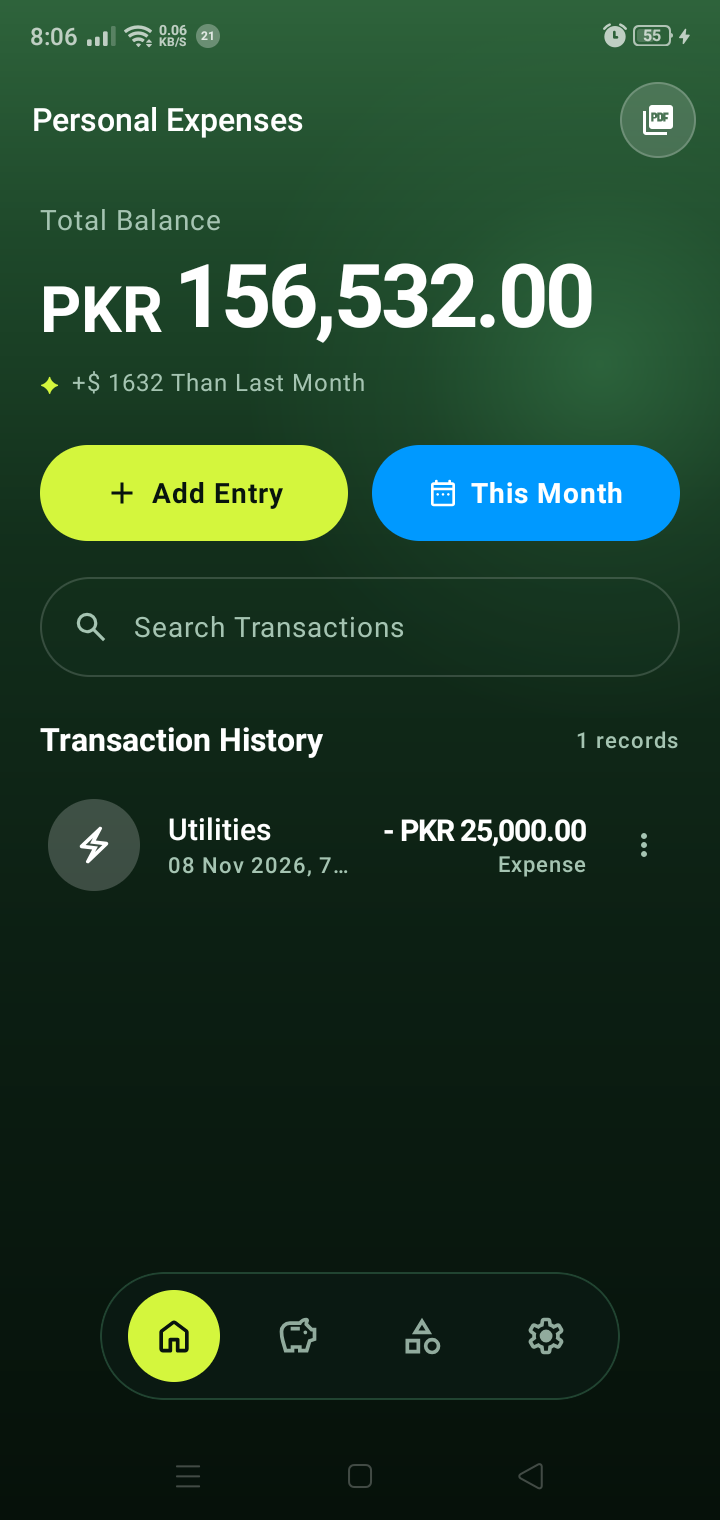
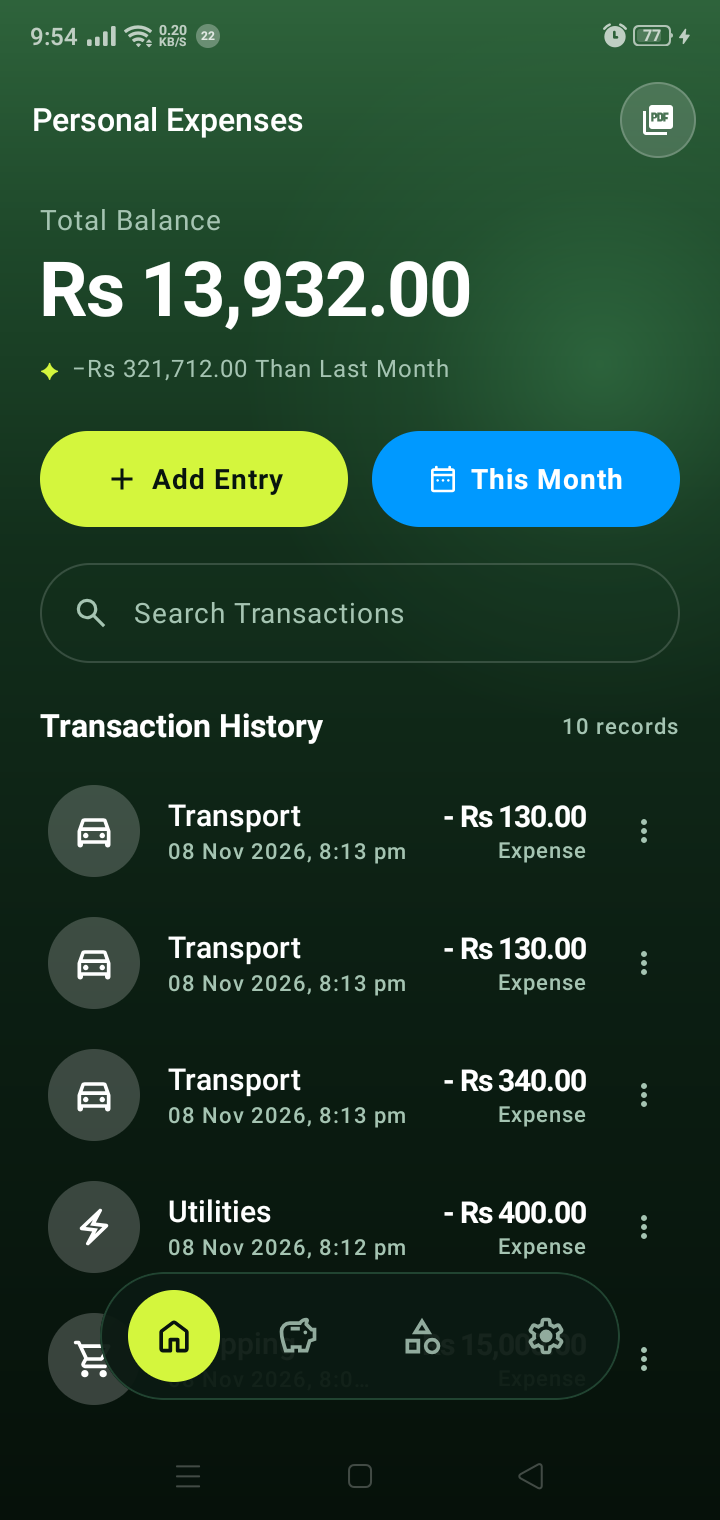
fix(ui): harmonize currency symbol typography and calculate real month-over-month trend

diff --git a/app/src/main/java/com/example/expensetracker/presentation/dashboard/DashboardScreen.kt b/app/src/main/java/com/example/expensetracker/presentation/dashboard/DashboardScreen.kt
@@ -228,25 +228,34 @@ fun DashboardScreen(
                         letterSpacing = 0.4.sp
                     )
 
-                    Row(
-                        verticalAlignment = Alignment.Bottom,
-                        horizontalArrangement = Arrangement.spacedBy(6.dp)
-                    ) {
-                        Text(
-                            text = uiState.currencySymbol,
-                            fontSize = 32.sp,
-                            fontWeight = FontWeight.Bold,
-                            color = Color.White
-                        )
-                        Text(
-                            text = formatAmount(uiState.balance),
-                            fontSize = 44.sp,
-                            fontWeight = FontWeight.Bold,
-                            color = Color.White,
-                            letterSpacing = (-1.5).sp,
-                            maxLines = 1,
-                            overflow = TextOverflow.Ellipsis
-                        )
+                    val formattedBalance = if (uiState.balance < 0) {
+                        "− ${uiState.currencySymbol} ${formatAmount(kotlin.math.abs(uiState.balance))}"
+                    } else {
+                        "${uiState.currencySymbol} ${formatAmount(uiState.balance)}"
+                    }
+
+                    Text(
+                        text = formattedBalance,
+                        fontSize = 38.sp,
+                        fontWeight = FontWeight.Bold,
+                        color = Color.White,
+                        letterSpacing = (-1.0).sp,
+                        maxLines = 1,
+                        overflow = TextOverflow.Ellipsis
+                    )
+
+                    val monthlyDelta = uiState.monthlyTrendDelta
+                    val subtitleText = when {
+                        uiState.balance < 0 -> "Expenses exceeding income — review budget"
+                        uiState.hasLastMonthData && monthlyDelta != null -> {
+                            val sign = if (monthlyDelta >= 0) "+" else "−"
+                            "$sign${uiState.currencySymbol} ${formatAmount(kotlin.math.abs(monthlyDelta))} Than Last Month"
+                        }
+                        uiState.thisMonthNet != 0.0 -> {
+                            val sign = if (uiState.thisMonthNet >= 0) "+" else "−"
+                            "$sign${uiState.currencySymbol} ${formatAmount(kotlin.math.abs(uiState.thisMonthNet))} This Month"
+                        }
+                        else -> "Healthy financial balance maintained"
                     }
 
                     Row(
@@ -260,8 +269,7 @@ fun DashboardScreen(
                             fontSize = 11.sp
                         )
                         Text(
-                            text = if (uiState.balance >= 0) "+$ 1632 Than Last Month"
-                                   else "Expenses exceeding income — review budget",
+                            text = subtitleText,
                             style = MaterialTheme.typography.bodySmall,
                             color = Color(0xFFA5C4B2)
                         )

diff --git a/app/src/main/java/com/example/expensetracker/presentation/dashboard/DashboardViewModel.kt b/app/src/main/java/com/example/expensetracker/presentation/dashboard/DashboardViewModel.kt
@@ -26,6 +26,7 @@ import kotlinx.coroutines.flow.StateFlow
 import kotlinx.coroutines.flow.asStateFlow
 import kotlinx.coroutines.flow.catch
 import kotlinx.coroutines.flow.collectLatest
+import kotlinx.coroutines.flow.combine
 import kotlinx.coroutines.flow.debounce
 import kotlinx.coroutines.flow.distinctUntilChanged
 import kotlinx.coroutines.flow.first
@@ -45,6 +46,7 @@ class DashboardViewModel @Inject constructor(
 
     private var currentLedgerId: String = ""
     private var transactionsJob: Job? = null
+    private var monthlyComparisonJob: Job? = null
     private val searchQueryFlow = MutableStateFlow("")
 
     init {
@@ -93,8 +95,46 @@ class DashboardViewModel @Inject constructor(
                             )
                         }
                         loadTransactions()
+                        loadMonthlyComparison()
                     }
                 }
+        }
+    }
+
+    private fun loadMonthlyComparison() {
+        monthlyComparisonJob?.cancel()
+        if (currentLedgerId.isEmpty()) return
+
+        val (thisMonthStart, thisMonthEnd) = DateUtils.thisMonthRange()
+        val (lastMonthStart, lastMonthEnd) = DateUtils.lastMonthRange()
+
+        monthlyComparisonJob = launchSafely(onError = ::handleError) {
+            combine(
+                transactionRepository.getPeriodIncome(currentLedgerId, thisMonthStart, thisMonthEnd),
+                transactionRepository.getPeriodExpense(currentLedgerId, thisMonthStart, thisMonthEnd),
+                transactionRepository.getPeriodIncome(currentLedgerId, lastMonthStart, lastMonthEnd),
+                transactionRepository.getPeriodExpense(currentLedgerId, lastMonthStart, lastMonthEnd)
+            ) { thisInc, thisExp, lastInc, lastExp ->
+                val thisIncome = thisInc ?: 0.0
+                val thisExpense = thisExp ?: 0.0
+                val lastIncome = lastInc ?: 0.0
+                val lastExpense = lastExp ?: 0.0
+
+                val hasLastMonth = (lastIncome > 0.0 || lastExpense > 0.0)
+                val thisNet = thisIncome - thisExpense
+                val lastNet = lastIncome - lastExpense
+                val delta = if (hasLastMonth) thisNet - lastNet else null
+
+                Triple(delta, hasLastMonth, thisNet)
+            }.collect { (delta, hasLastMonth, thisNet) ->
+                _uiState.update { state ->
+                    state.copy(
+                        monthlyTrendDelta = delta,
+                        hasLastMonthData = hasLastMonth,
+                        thisMonthNet = thisNet
+                    )
+                }
+            }
         }
     }
 
@@ -280,6 +320,4 @@ class DashboardViewModel @Inject constructor(
     private fun handleError(error: UiError) {
         _uiState.update { it.copy(error = error) }
     }
-
-
 }

diff --git a/app/src/test/java/com/example/expensetracker/data/repository/FakeTransactionRepository.kt b/app/src/test/java/com/example/expensetracker/data/repository/FakeTransactionRepository.kt
@@ -12,6 +12,8 @@ import kotlinx.coroutines.flow.flow
 class FakeTransactionRepository : TransactionRepository {
 
     private val transactionsFlow = MutableStateFlow<List<TransactionWithCategory>>(emptyList())
+    private val periodIncomeFlow = MutableStateFlow<Double?>(null)
+    private val periodExpenseFlow = MutableStateFlow<Double?>(null)
 
     // Test-only knobs — set these from inside a test to control behavior
     var errorToThrow: Throwable? = null
@@ -20,6 +22,14 @@ class FakeTransactionRepository : TransactionRepository {
 
     fun emitTransactions(transactions: List<TransactionWithCategory>) {
         transactionsFlow.value = transactions
+    }
+
+    fun emitPeriodIncome(income: Double?) {
+        periodIncomeFlow.value = income
+    }
+
+    fun emitPeriodExpense(expense: Double?) {
+        periodExpenseFlow.value = expense
     }
 
     override fun getTransactions(
@@ -35,10 +45,10 @@ class FakeTransactionRepository : TransactionRepository {
     }
 
     override fun getPeriodIncome(ledgerId: String, startDate: Long, endDate: Long): Flow<Double?> =
-        TODO("Not needed for current DashboardViewModel tests")
+        periodIncomeFlow
 
     override fun getPeriodExpense(ledgerId: String, startDate: Long, endDate: Long): Flow<Double?> =
-        TODO("Not needed for current DashboardViewModel tests")
+        periodExpenseFlow
 
     override fun getMonthlySnapshot(ledgerId: String, month: Int, year: Int): Flow<MonthlySnapshot?> =
         TODO("Not needed for current DashboardViewModel tests")

diff --git a/app/src/test/java/com/example/expensetracker/domain/model/DateUtilsTest.kt b/app/src/test/java/com/example/expensetracker/domain/model/DateUtilsTest.kt
@@ -93,4 +93,28 @@ class DateUtilsTest {
         assertEquals(at(2026, Calendar.NOVEMBER, 8), start)
         assertEquals(at(2026, Calendar.NOVEMBER, 8, 23, 59, 59, 999), end)
     }
+
+    @Test
+    fun `last month runs from first day to last day of previous month`() {
+        val (start, end) = DateUtils.lastMonthRange(sunday)
+
+        assertEquals(at(2026, Calendar.OCTOBER, 1), start)
+        assertEquals(at(2026, Calendar.OCTOBER, 31, 23, 59, 59, 999), end)
+    }
+
+    @Test
+    fun `last month in January wraps to December of previous year`() {
+        val (start, end) = DateUtils.lastMonthRange(at(2026, Calendar.JANUARY, 15))
+
+        assertEquals(at(2025, Calendar.DECEMBER, 1), start)
+        assertEquals(at(2025, Calendar.DECEMBER, 31, 23, 59, 59, 999), end)
+    }
+
+    @Test
+    fun `last month in March of leap year ends on Feb 29`() {
+        val (start, end) = DateUtils.lastMonthRange(at(2028, Calendar.MARCH, 15))
+
+        assertEquals(at(2028, Calendar.FEBRUARY, 1), start)
+        assertEquals(at(2028, Calendar.FEBRUARY, 29, 23, 59, 59, 999), end)
+    }
 }

diff --git a/app/src/test/java/com/example/expensetracker/presentation/dashboard/DashboardViewModelTest.kt b/app/src/test/java/com/example/expensetracker/presentation/dashboard/DashboardViewModelTest.kt
@@ -155,4 +155,24 @@ class DashboardViewModelTest {
 
         assertNotNull(viewModel.uiState.value.error)
     }
+
+    @Test
+    fun `when last month has transactions, monthlyTrendDelta is computed accurately`() = runTest {
+        transactionRepository.emitPeriodIncome(10000.0)
+        transactionRepository.emitPeriodExpense(4000.0)
+        ledgerRepository.emitDefaultLedger(sampleLedger())
+
+        assertEquals(6000.0, viewModel.uiState.value.thisMonthNet, 0.01)
+        assertTrue(viewModel.uiState.value.hasLastMonthData)
+    }
+
+    @Test
+    fun `when last month has no transactions, hasLastMonthData is false`() = runTest {
+        transactionRepository.emitPeriodIncome(null)
+        transactionRepository.emitPeriodExpense(null)
+        ledgerRepository.emitDefaultLedger(sampleLedger())
+
+        assertEquals(false, viewModel.uiState.value.hasLastMonthData)
+        assertEquals(null, viewModel.uiState.value.monthlyTrendDelta)
+    }
 }

diff --git a/app/src/main/java/com/example/expensetracker/presentation/dashboard/DashboardUiState.kt b/app/src/main/java/com/example/expensetracker/presentation/dashboard/DashboardUiState.kt
@@ -11,7 +11,7 @@ data class DashboardUiState(
     val totalExpense: Double = 0.0,
     val transactions: List<TransactionWithCategory> = emptyList(),
     val selectedFilter: DateRangeFilter = DateRangeFilter.ThisMonth,
-    val currencySymbol: String = "₨",
+    val currencySymbol: String = "Rs",
     val isLoading: Boolean = false,
     val error: UiError? = null,
     val searchQuery: String = "",
@@ -19,5 +19,8 @@ data class DashboardUiState(
     val selectedTypeFilter: String? = null,
     val allCategories: List<Category> = emptyList(),
     val selectedCategoryIds: Set<String> = emptySet(),
-    val isCategoryFilterSheetVisible: Boolean = false
+    val isCategoryFilterSheetVisible: Boolean = false,
+    val monthlyTrendDelta: Double? = null,
+    val hasLastMonthData: Boolean = false,
+    val thisMonthNet: Double = 0.0
 )

diff --git a/app/src/main/java/com/example/expensetracker/domain/model/DateUtils.kt b/app/src/main/java/com/example/expensetracker/domain/model/DateUtils.kt
@@ -75,6 +75,16 @@ object DateUtils {
         return start to end
     }
 
+    fun lastMonthRange(now: Long = System.currentTimeMillis()): Pair<Long, Long> {
+        val cal = Calendar.getInstance().apply { timeInMillis = now }
+        cal.add(Calendar.MONTH, -1)
+        cal.set(Calendar.DAY_OF_MONTH, 1)
+        val start = cal.toStartOfDay().timeInMillis
+        cal.set(Calendar.DAY_OF_MONTH, cal.getActualMaximum(Calendar.DAY_OF_MONTH))
+        val end = cal.toEndOfDay().timeInMillis
+        return start to end
+    }
+
     fun thisYearRange(now: Long = System.currentTimeMillis()): Pair<Long, Long> {
         val cal = Calendar.getInstance().apply { timeInMillis = now }
         cal.set(Calendar.MONTH, Calendar.JANUARY)

diff --git a/app/src/main/java/com/example/expensetracker/presentation/dashboard/BalanceCard.kt b/app/src/main/java/com/example/expensetracker/presentation/dashboard/BalanceCard.kt
@@ -264,12 +264,12 @@ fun BalanceCard(
 
                 // Balance amount with currency symbol
                 Row(
-                    verticalAlignment = Alignment.Bottom,
+                    verticalAlignment = Alignment.CenterVertically,
                     horizontalArrangement = Arrangement.spacedBy(6.dp)
                 ) {
                     Text(
                         text = currencySymbol,
-                        style = MaterialTheme.typography.headlineMedium,
+                        style = MaterialTheme.typography.displayMedium,
                         fontWeight = FontWeight.Bold,
                         color = ElectricLime
                     )

diff --git a/app/src/main/java/com/example/expensetracker/presentation/transaction/AddEditTransactionUiState.kt b/app/src/main/java/com/example/expensetracker/presentation/transaction/AddEditTransactionUiState.kt
@@ -13,7 +13,7 @@ data class AddEditTransactionUiState(
     val filteredCategories: List<Category> = emptyList(),
     val note: String = "",
     val date: Long = System.currentTimeMillis(),
-    val currencySymbol: String = "Rs.",
+    val currencySymbol: String = "Rs",
     val isSaveEnabled: Boolean = false,
     val isLoading: Boolean = false,
     val isSaved: Boolean = false,

diff --git a/app/src/main/java/com/example/expensetracker/presentation/settings/SettingsUiState.kt b/app/src/main/java/com/example/expensetracker/presentation/settings/SettingsUiState.kt
@@ -6,7 +6,7 @@ import com.example.expensetracker.domain.model.UiError
 
 data class SettingsUiState(
     val currencyCode: String = "PKR",
-    val currencySymbol: String = "₨",
+    val currencySymbol: String = "Rs",
     val themeMode: String = Constants.ThemeMode.SYSTEM,
     val currencySearchQuery: String = "",
     val filteredCurrencies: List<CurrencyModel> = emptyList(),

diff --git a/app/src/main/java/com/example/expensetracker/presentation/transaction/AmountInput.kt b/app/src/main/java/com/example/expensetracker/presentation/transaction/AmountInput.kt
@@ -37,7 +37,7 @@ fun AmountInput(
     ) {
         Text(
             text = currencySymbol,
-            style = MaterialTheme.typography.headlineMedium,
+            style = MaterialTheme.typography.displayMedium,
             fontWeight = FontWeight.Bold,
             color = ElectricLime
         )

diff --git a/README.md b/README.md
@@ -41,7 +41,7 @@ A production-grade, offline-first personal finance Android application built wit
 The app features a bespoke **Organic Forest Luxury** fintech aesthetic inspired by modern wealth management interfaces (e.g. Wise, Monzo, Apple Card):
 
 - **Base Canvas**: Radiant moss-to-obsidian vertical canopy gradient (`#2E633B` $\to$ `#122E1B` $\to$ `#06110A`) with an organic ambient top-right radial light source matching the mockup aesthetic.
-- **Hero Balance**: Large, uncluttered bold balance typography (`PKR 27,420.00`) and dynamic delta chip (*"✦ +$ 1632 Than Last Month"*) floating directly on the radiant green canopy without bounding boxes.
+- **Hero Balance**: Large, uncluttered bold balance typography (`Rs 156,532.00`) and dynamic delta chip (*"✦ +Rs 1,632.00 Than Last Month"* or *"−Rs 321,712.00 Than Last Month"*) floating directly on the radiant green canopy with unified optical scale and zero mockup data.
 - **High-Energy Action Pills**: Thumb-friendly quick actions row right below the hero balance: symmetrical 50/50 split with **Neon Lime** `+ Add Entry` pill and **Sky Blue** `This Month` period filter, providing balanced ergonomic reach without redundant actions.
 - **Embedded Search Pill**: Floating translucent search capsule (`🔍 Search Transactions`) directly embedded on the dashboard for instant, debounced real-time filtering.
 - **Floating Pill Bottom Navigation**: Floating dark glass navigation capsule (`#0B1A12` with 32dp corner radius) docked at the bottom with 4 circular glass icons (Home, Ledger, Categories, Settings) that float gracefully above scrolling content, serving as the single source of truth for global navigation.
